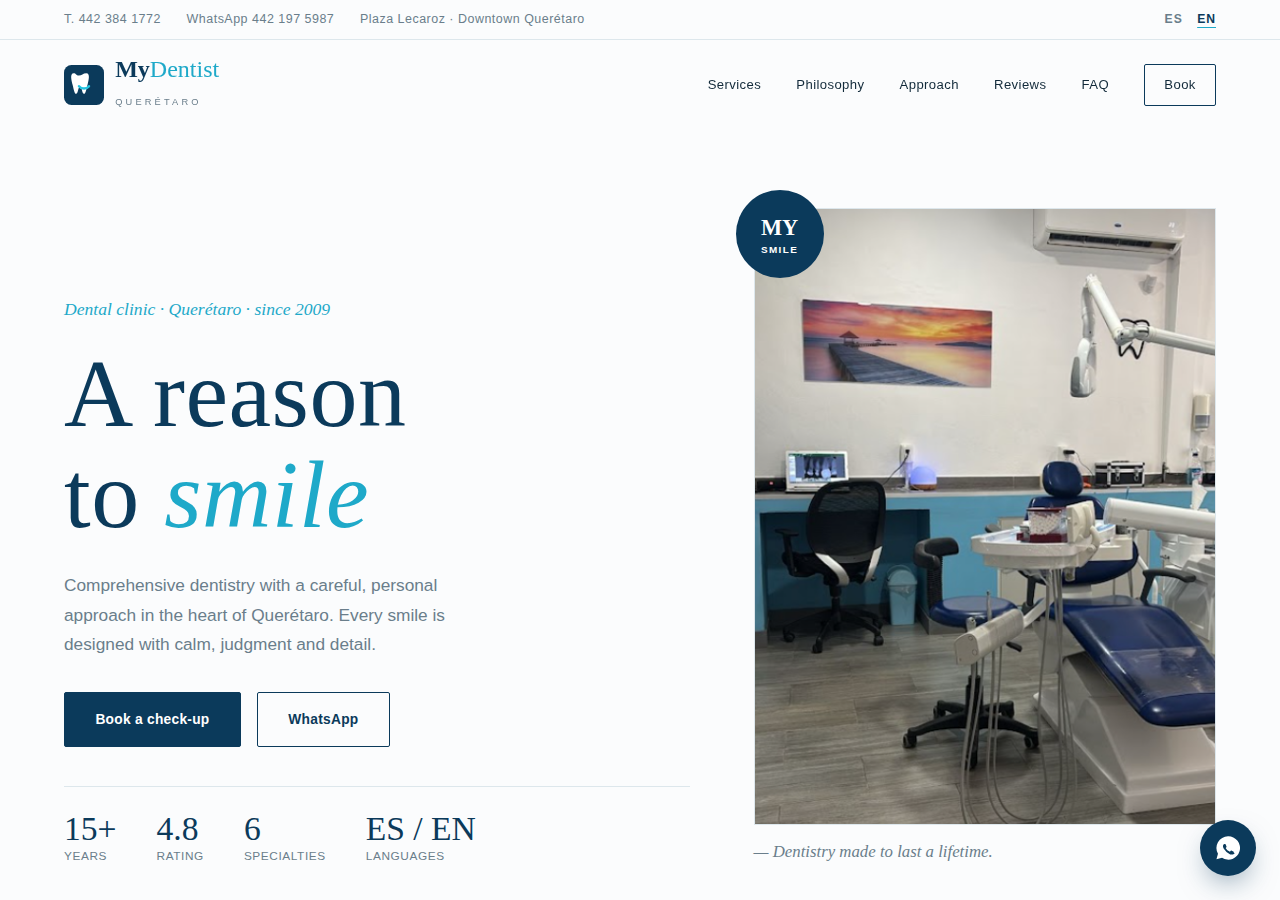
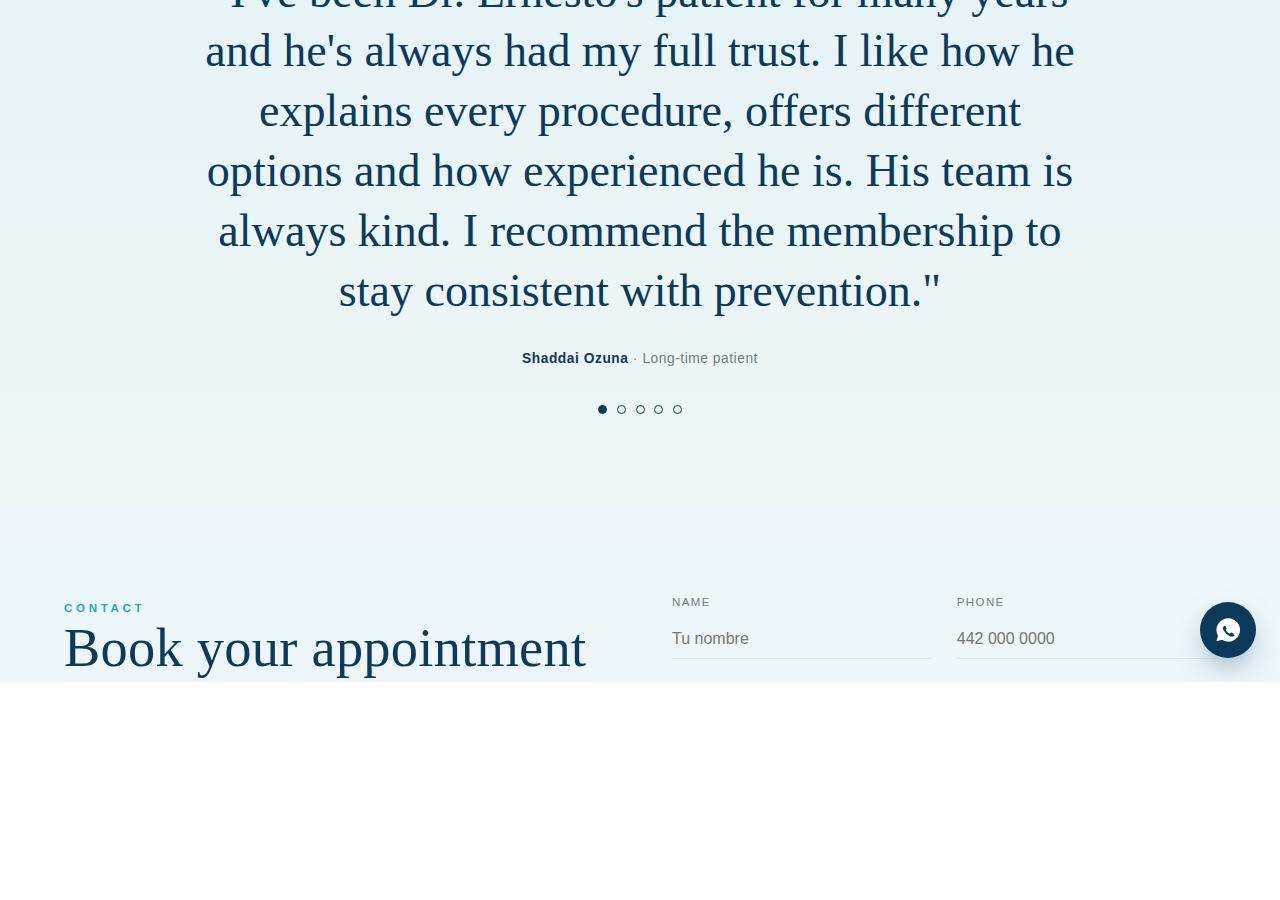
style(v3): más color al fondo + mes/año automático en las 3 versiones
v3 (Editorial Minimal) menos sosa, manteniendo el aire editorial:
- Fondo con lavados suaves de cian/menta y glow en el hero
- Cinta de especialidades y sección 'Enfoque' con banda de color + tarjetas blancas
- Testimonios sobre cian suave; CTA final en degradado navy→cian con texto blanco

Mes y año automático (footer) en v1/v2/v3 e index, traducido ES/EN
(Julio, 2026 / July, 2026), se actualiza solo cada mes. index regenerado
desde v1. Miniaturas del escaparate actualizadas.

diff --git a/v3.html b/v3.html
@@ -23,7 +23,11 @@
 }
 *,*::before,*::after{box-sizing:border-box;margin:0;padding:0}
 html{scroll-behavior:smooth}
-body{font-family:var(--b);background:var(--paper);color:var(--ink);line-height:1.7;overflow-x:hidden;-webkit-font-smoothing:antialiased;font-weight:400}
+body{font-family:var(--b);background:
+  radial-gradient(75% 45% at 100% 0%, rgba(37,196,224,.13), transparent 60%),
+  radial-gradient(65% 45% at 0% 22%, rgba(30,169,201,.07), transparent 55%),
+  linear-gradient(180deg,#FBFCFD 0%, #ECF6F9 100%);
+  background-attachment:fixed;color:var(--ink);line-height:1.7;overflow-x:hidden;-webkit-font-smoothing:antialiased;font-weight:400}
 a{color:inherit;text-decoration:none}img{max-width:100%;display:block}
 h1,h2,h3{font-family:var(--d);font-weight:500;line-height:1.05;color:var(--navy);letter-spacing:.005em}
 .wrap{width:min(1200px,90vw);margin-inline:auto}
@@ -84,7 +88,7 @@ nav .wrap{display:flex;align-items:center;justify-content:space-between;padding:
 .hero-fig .stamp b{font-family:var(--d);font-size:1.4rem;display:block;letter-spacing:0}
 
 /* marquee */
-.marq{border-block:1px solid var(--line);overflow:hidden;padding:1.1rem 0}
+.marq{border-block:1px solid var(--line);overflow:hidden;padding:1.1rem 0;background:linear-gradient(90deg,#E4F3F8,#E8F6F0)}
 .marq-track{display:flex;gap:3rem;white-space:nowrap;animation:scroll 26s linear infinite;width:max-content}
 .marq span{font-family:var(--d);font-style:italic;font-size:1.5rem;color:var(--navy);display:inline-flex;align-items:center;gap:3rem}
 .marq span::after{content:"✦";color:var(--cyan);font-style:normal;font-size:.8rem}
@@ -124,7 +128,8 @@ nav .wrap{display:flex;align-items:center;justify-content:space-between;padding:
 .about .sig{font-family:var(--d);font-style:italic;font-size:1.4rem;color:var(--cyan-lt);margin-top:.6rem}
 
 /* approach columns */
-.appr{display:grid;grid-template-columns:repeat(3,1fr);gap:0;border:1px solid var(--line)}
+#enfoque{background:linear-gradient(180deg,#E7F5F0,#F4FAF8)}
+.appr{display:grid;grid-template-columns:repeat(3,1fr);gap:0;border:1px solid var(--line);background:#fff;border-radius:6px;overflow:hidden;box-shadow:0 24px 50px -34px rgba(11,58,91,.35)}
 .appr .c{padding:2.4rem 2rem;border-right:1px solid var(--line)}
 .appr .c:last-child{border-right:none}
 .appr .c .n{font-family:var(--d);font-style:italic;font-size:1.2rem;color:var(--cyan);margin-bottom:1rem}
@@ -170,11 +175,17 @@ nav .wrap{display:flex;align-items:center;justify-content:space-between;padding:
 .qa .a p{padding:0 0 1.5rem;color:var(--muted);max-width:64ch}
 
 /* cta */
-.cband{border:1px solid var(--navy);padding:clamp(2.5rem,6vw,4.5rem);text-align:center}
-.cband h2{font-size:clamp(2.2rem,5vw,3.8rem);margin-bottom:1rem}
-.cband h2 em{font-style:italic;color:var(--cyan)}
-.cband p{color:var(--muted);margin-bottom:2rem;max-width:48ch;margin-inline:auto}
+.cband{border:none;border-radius:8px;background:linear-gradient(120deg,var(--navy) 0%,#12557f 55%,var(--cyan) 130%);padding:clamp(2.7rem,6vw,4.8rem);text-align:center;position:relative;overflow:hidden;box-shadow:0 30px 60px -30px rgba(11,58,91,.55)}
+.cband::after{content:"";position:absolute;inset:0;background:radial-gradient(50% 60% at 15% 10%,rgba(255,255,255,.12),transparent 60%)}
+.cband>*{position:relative;z-index:1}
+.cband h2{font-size:clamp(2.2rem,5vw,3.8rem);margin-bottom:1rem;color:#fff}
+.cband h2 em{font-style:italic;color:#BEEAF3}
+.cband p{color:rgba(255,255,255,.85);margin-bottom:2rem;max-width:48ch;margin-inline:auto}
 .cband .a{display:flex;gap:1rem;justify-content:center;flex-wrap:wrap}
+.cband .btn-solid{background:#fff;color:var(--navy);border-color:#fff}
+.cband .btn-solid:hover{background:#EAF7FB}
+.cband .btn-line{color:#fff;border-color:rgba(255,255,255,.55)}
+.cband .btn-line:hover{background:rgba(255,255,255,.12);color:#fff}
 
 /* footer */
 footer{border-top:1px solid var(--line);padding:3.5rem 0 1.6rem}
@@ -328,7 +339,7 @@ html.js .reveal.in{opacity:1;transform:none}
   </div>
 </section>
 
-<section class="sec" id="opiniones" style="background:var(--paper-2)">
+<section class="sec" id="opiniones" style="background:linear-gradient(180deg,#E4F3F8,#EEF6F5)">
   <div class="wrap">
     <div class="tbig">
       <div class="stars">★★★★★</div>
@@ -428,7 +439,7 @@ html.js .reveal.in{opacity:1;transform:none}
       <div><h4 data-i18n="foot.contact">Contacto</h4>
         <a href="tel:+524423841772">442 384 1772</a><a href="https://wa.me/524421975987" target="_blank" rel="noopener">442 197 5987 · WhatsApp</a><a href="#contacto" data-i18n="foot.hours">Lun–Vie 9–20 · Sáb 9–14</a></div>
     </div>
-    <div class="fbot"><span>© <span id="year"></span> My Dentist Querétaro</span><span data-i18n="foot.made">Una razón para sonreír</span></div>
+    <div class="fbot"><span>© <span id="year"></span> My Dentist Querétaro</span><span id="monthYear" style="letter-spacing:.06em"></span><span data-i18n="foot.made">Una razón para sonreír</span></div>
   </div>
 </footer>
 
@@ -485,7 +496,9 @@ const els=document.querySelectorAll('[data-i18n]'),hEls=document.querySelectorAl
 const ES={};els.forEach(e=>ES[e.getAttribute('data-i18n')]=e.innerHTML);
 const ESH={};hEls.forEach(e=>ESH[e.getAttribute('data-i18n-html')]=e.innerHTML);
 let curLang='es',curT=0;
-function setLang(l){curLang=l;document.documentElement.lang=l;
+const MES={es:["Enero","Febrero","Marzo","Abril","Mayo","Junio","Julio","Agosto","Septiembre","Octubre","Noviembre","Diciembre"],en:["January","February","March","April","May","June","July","August","September","October","November","December"]};
+function setMonthYear(l){var d=new Date(),el=document.getElementById('monthYear');if(el)el.textContent=MES[l][d.getMonth()]+', '+d.getFullYear();}
+function setLang(l){curLang=l;document.documentElement.lang=l;setMonthYear(l);
   els.forEach(e=>{const k=e.getAttribute('data-i18n');const d=l==='es'?ES[k]:(I18N.en[k]??ES[k]);if(d!=null)e.innerHTML=d;});
   hEls.forEach(e=>{const k=e.getAttribute('data-i18n-html');const d=l==='es'?ESH[k]:(I18N.en[k]??ESH[k]);if(d!=null)e.innerHTML=d;});
   document.querySelectorAll('.lang button').forEach(b=>b.classList.toggle('active',b.dataset.lang===l));

diff --git a/v2.html b/v2.html
@@ -455,7 +455,7 @@ html.js .reveal.in{opacity:1;transform:none}
       <div><h4 data-i18n="foot.contact">Contacto</h4>
         <a href="tel:+524423841772">442 384 1772</a><a href="https://wa.me/524421975987" target="_blank" rel="noopener">442 197 5987 · WhatsApp</a><a href="#contacto" data-i18n="foot.hours">Lun–Vie 9–20 · Sáb 9–14</a></div>
     </div>
-    <div class="fbot"><span>© <span id="year"></span> My Dentist Querétaro</span><span data-i18n="foot.made">Una razón para sonreír 🦷</span></div>
+    <div class="fbot"><span>© <span id="year"></span> My Dentist Querétaro</span><span id="monthYear" style="letter-spacing:.04em"></span><span data-i18n="foot.made">Una razón para sonreír 🦷</span></div>
   </div>
 </footer>
 
@@ -506,7 +506,9 @@ const I18N={en:{
 const els=document.querySelectorAll('[data-i18n]'),hEls=document.querySelectorAll('[data-i18n-html]');
 const ES={};els.forEach(e=>ES[e.getAttribute('data-i18n')]=e.innerHTML);
 const ESH={};hEls.forEach(e=>ESH[e.getAttribute('data-i18n-html')]=e.innerHTML);
-function setLang(l){document.documentElement.lang=l;
+const MES={es:["Enero","Febrero","Marzo","Abril","Mayo","Junio","Julio","Agosto","Septiembre","Octubre","Noviembre","Diciembre"],en:["January","February","March","April","May","June","July","August","September","October","November","December"]};
+function setMonthYear(l){var d=new Date(),el=document.getElementById('monthYear');if(el)el.textContent=MES[l][d.getMonth()]+', '+d.getFullYear();}
+function setLang(l){document.documentElement.lang=l;setMonthYear(l);
   els.forEach(e=>{const k=e.getAttribute('data-i18n');const d=l==='es'?ES[k]:(I18N.en[k]??ES[k]);if(d!=null)e.innerHTML=d;});
   hEls.forEach(e=>{const k=e.getAttribute('data-i18n-html');const d=l==='es'?ESH[k]:(I18N.en[k]??ESH[k]);if(d!=null)e.innerHTML=d;});
   document.querySelectorAll('.lang button').forEach(b=>b.classList.toggle('active',b.dataset.lang===l));

diff --git a/index.html b/index.html
@@ -645,6 +645,7 @@ html.js .reveal.in{opacity:1;transform:none}
     </div>
     <div class="foot-bottom">
       <span>© <span id="year"></span> My Dentist Querétaro. <span data-i18n="foot.rights">Todos los derechos reservados.</span></span>
+      <span id="monthYear" style="letter-spacing:.04em"></span>
       <span data-i18n="foot.made">Una razón para sonreír 🦷</span>
     </div>
   </div>
@@ -709,8 +710,10 @@ const els=document.querySelectorAll('[data-i18n]');
 const htmlEls=document.querySelectorAll('[data-i18n-html]');
 const ES={};els.forEach(e=>ES[e.getAttribute('data-i18n')]=e.innerHTML);
 const ESH={};htmlEls.forEach(e=>ESH[e.getAttribute('data-i18n-html')]=e.innerHTML);
+const MES={es:["Enero","Febrero","Marzo","Abril","Mayo","Junio","Julio","Agosto","Septiembre","Octubre","Noviembre","Diciembre"],en:["January","February","March","April","May","June","July","August","September","October","November","December"]};
+function setMonthYear(l){var d=new Date(),el=document.getElementById('monthYear');if(el)el.textContent=MES[l][d.getMonth()]+', '+d.getFullYear();}
 function setLang(l){
-  document.documentElement.lang=l;
+  document.documentElement.lang=l;setMonthYear(l);
   els.forEach(e=>{const k=e.getAttribute('data-i18n');const d=(l==='es')?ES[k]:(I18N.en[k]??ES[k]);if(d!=null)e.innerHTML=d;});
   htmlEls.forEach(e=>{const k=e.getAttribute('data-i18n-html');const d=(l==='es')?ESH[k]:(I18N.en[k]??ESH[k]);if(d!=null)e.innerHTML=d;});
   document.querySelectorAll('.lang button').forEach(b=>b.classList.toggle('active',b.dataset.lang===l));

diff --git a/v1.html b/v1.html
@@ -645,6 +645,7 @@ html.js .reveal.in{opacity:1;transform:none}
     </div>
     <div class="foot-bottom">
       <span>© <span id="year"></span> My Dentist Querétaro. <span data-i18n="foot.rights">Todos los derechos reservados.</span></span>
+      <span id="monthYear" style="letter-spacing:.04em"></span>
       <span data-i18n="foot.made">Una razón para sonreír 🦷</span>
     </div>
   </div>
@@ -709,8 +710,10 @@ const els=document.querySelectorAll('[data-i18n]');
 const htmlEls=document.querySelectorAll('[data-i18n-html]');
 const ES={};els.forEach(e=>ES[e.getAttribute('data-i18n')]=e.innerHTML);
 const ESH={};htmlEls.forEach(e=>ESH[e.getAttribute('data-i18n-html')]=e.innerHTML);
+const MES={es:["Enero","Febrero","Marzo","Abril","Mayo","Junio","Julio","Agosto","Septiembre","Octubre","Noviembre","Diciembre"],en:["January","February","March","April","May","June","July","August","September","October","November","December"]};
+function setMonthYear(l){var d=new Date(),el=document.getElementById('monthYear');if(el)el.textContent=MES[l][d.getMonth()]+', '+d.getFullYear();}
 function setLang(l){
-  document.documentElement.lang=l;
+  document.documentElement.lang=l;setMonthYear(l);
   els.forEach(e=>{const k=e.getAttribute('data-i18n');const d=(l==='es')?ES[k]:(I18N.en[k]??ES[k]);if(d!=null)e.innerHTML=d;});
   htmlEls.forEach(e=>{const k=e.getAttribute('data-i18n-html');const d=(l==='es')?ESH[k]:(I18N.en[k]??ESH[k]);if(d!=null)e.innerHTML=d;});
   document.querySelectorAll('.lang button').forEach(b=>b.classList.toggle('active',b.dataset.lang===l));
